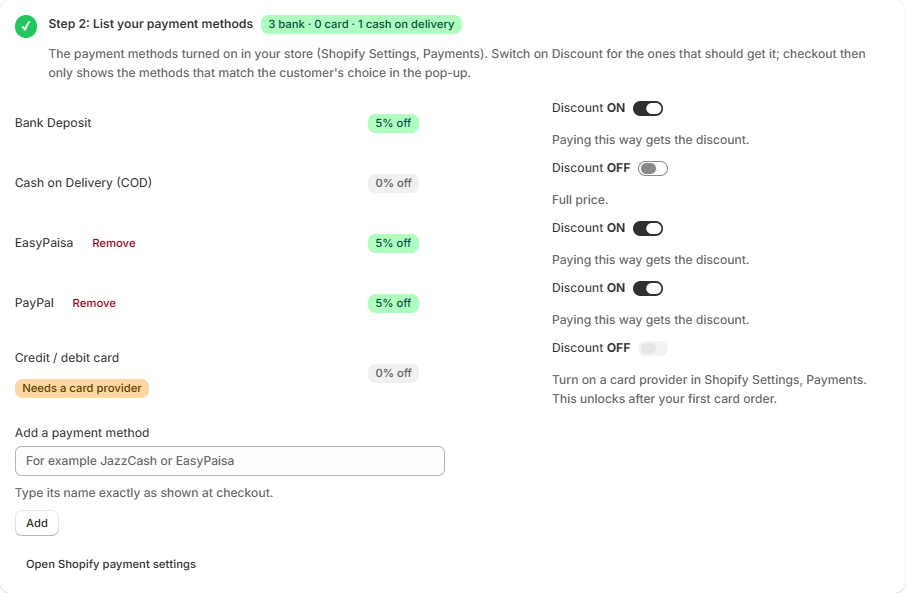
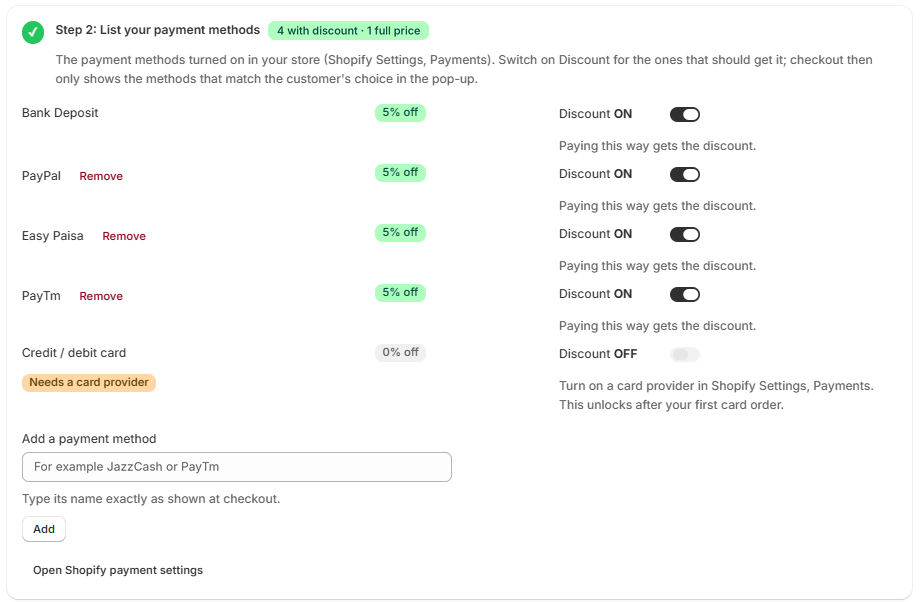
Clearer Step 2 badge and new Step 2 guide screenshot
The badge counted full-price methods as cash on delivery. It now shows
how many methods get the discount and how many pay full price.

Claude-Session: https://claude.ai/code/session_01T5N9wRvo6CZFC7JEBmskR2

diff --git a/app/routes/app.settings.tsx b/app/routes/app.settings.tsx
@@ -492,7 +492,7 @@ export default function Settings() {
             title="List your payment methods"
             why="The payment methods turned on in your store (Shopify Settings, Payments). Switch on Discount for the ones that should get it; checkout then only shows the methods that match the customer's choice in the pop-up."
             done={hasBank || hasCard}
-            doneText={`${settings.gateways.length} bank · ${settings.cardGateways.length} card · ${settings.codGateways.length} cash on delivery`}
+            doneText={`${settings.gateways.length + (cardOn ? settings.cardGateways.length : 0)} with discount · ${settings.codGateways.length + (cardOn ? 0 : settings.cardGateways.length)} full price`}
           >
             <s-stack direction="block" gap="small-200">
               {methods
